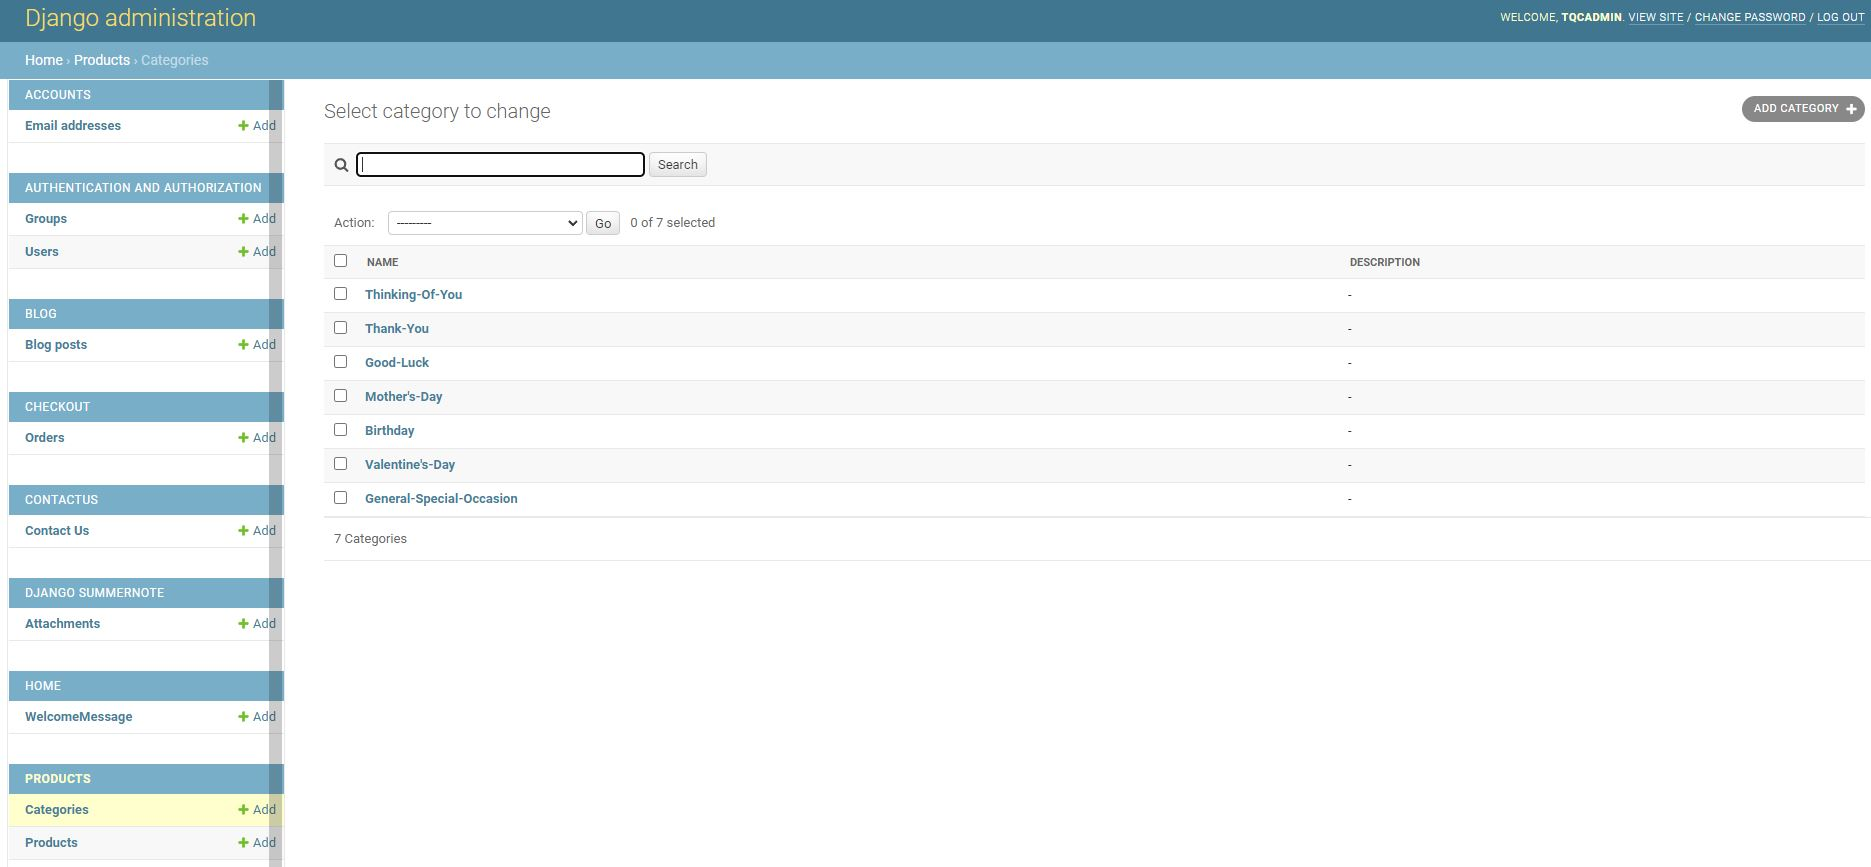
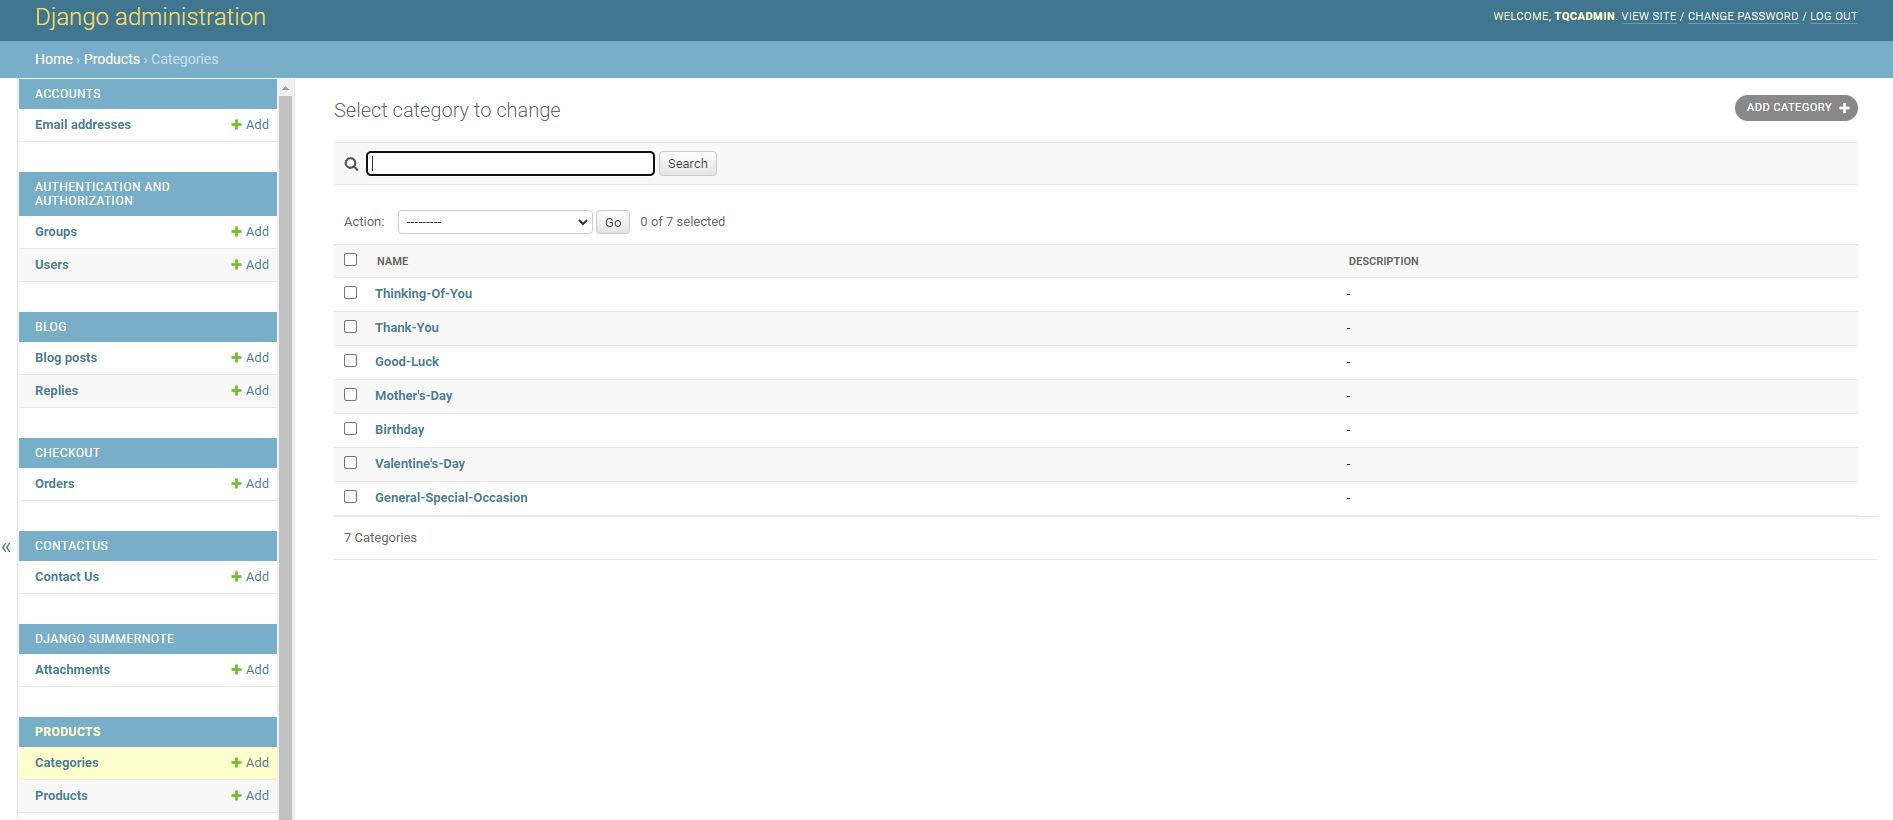
Update Testing and Acknowledgements in README

diff --git a/README.md b/README.md
@@ -440,14 +440,31 @@ Deleting a product triggers the following confirmation page:
     - Expected: There should be a page to submit a message 
     - Actual: From the "Contact Us" link, there is a form to allow sending of messages to site admin
     ![Image of contact us page](https://raw.githubusercontent.com/domsq/tina-q-cards/master/screenshots/features/contact_us.JPG)<br>
+- As a site user I can reply to the blog posts so that I can express an opinion about them or add a comment
+    - Expected: There will be a form to submit a reply when viewing a blog post
+    - Actual: On the blog post detail page, there is an inline form below the post that logged in users can use to post a reply
+    ![Image of blog reply form](https://raw.githubusercontent.com/domsq/tina-q-cards/master/screenshots/features/blog_detail2.JPG)<br>
+- As a site user I can edit my replies to the blog posts so that I may update them if needed
+    - Expected: There will be a function to edit an existing reply
+    - Actual: On the blog post detail page, if the user clicks "Edit" on one of their replies, the inline form below the post is used for editing the reply
+    ![Image of blog reply edit](https://raw.githubusercontent.com/domsq/tina-q-cards/master/screenshots/features/blog_reply_edit.JPG)<br>
+- As a site user I can delete any of my replies to the blog posts so that I can remove them if I feel they’re no longer needed
+    - Expected: There will be a function to delete a reply
+    - Actual: On the blog post detail page, if the user clicks "Delete" on one of their replies, they are shown a confirmation screen regarding the reply deletion
+    ![Image of blog reply delete confirmation](https://raw.githubusercontent.com/domsq/tina-q-cards/master/screenshots/features/delete_reply.JPG)<br>
 - As a site admin I can manage product categories so that I may add, update or delete them as needed
     - Expected: There will be an admin view where I can see the configured categories
     - Actual: Navigating to the admin page, which has a link visible to admin users from the "Account" dropdown, allows managing of the categories
     ![Image of category management page](https://raw.githubusercontent.com/domsq/tina-q-cards/master/screenshots/testing/manage_categories.JPG)<br>
 - As a site admin I can manage products so that I may add, update or delete them as needed
-    - Expected: I will be able to view product management from the admin view
-    - Actual: From the admin page, I can select to manage the products
-    ![Image of product management page](https://raw.githubusercontent.com/domsq/tina-q-cards/master/screenshots/testing/manage_products.JPG)<br>
+    - Expected: There will be functionality to manage products
+    - Actual: 
+        - Adding products: From the "Account" dropdown, I can click "Product Management" as a logged in admin user to add a new product
+        ![Image of add product page](https://raw.githubusercontent.com/domsq/tina-q-cards/master/screenshots/features/add_product.JPG)<br>
+        - Updating products: From either the product overview or product detail pages, I can click "Edit" on a product as a logged in admin user to update it
+        ![Image of edit product page](https://raw.githubusercontent.com/domsq/tina-q-cards/master/screenshots/features/edit_product.JPG)<br>
+        - Deleting products: From either the product overview or product detail pages, I can click "Delete" on a product as a logged in admin user to delete it
+        ![Image of delete product page](https://raw.githubusercontent.com/domsq/tina-q-cards/master/screenshots/features/delete_product.JPG)<br>
 - As a site admin I can manage user accounts so that any required changes to them can be made
     - Expected: The admin view should have a way to manage users
     - Actual: From the admin page, clicking on "Users" allows management of them
@@ -460,10 +477,6 @@ Deleting a product triggers the following confirmation page:
     - Expected: I should be able to view submitted messages from an admin view
     - Actual: Clicking on "Contact Us" from the admin page allows viewing of submitted messages
     ![Image of message management page](https://raw.githubusercontent.com/domsq/tina-q-cards/master/screenshots/testing/manage_messages.JPG)<br>
-- As a site admin I can manage the welcome message text that displays on the Homepage so that I can update it if required
-    - Expected: There will be a way to view the welcome message text
-    - Actual: From the admin page, clicking on "WelcomeMessage" allows for this functionality
-    ![Image of welcome message management page](https://raw.githubusercontent.com/domsq/tina-q-cards/master/screenshots/testing/manage_welcomemessage.JPG)<br>
 - As a site admin I can manage the content on the “Tina's Blog” page so that it can be amended if needed
     - Expected: The admin view will have a way to manage content for the blog page
     - Actual: Navigating to "Blog posts" allows management of this content
@@ -506,8 +519,9 @@ During the development of my application, I encountered the following bugs which
 - My checkout wasn’t initially working once I’d deployed, this was because I’d forgotten to set the “STRIPE_PUBLIC_KEY”, “STRIPE_SECRET_KEY” and “STRIPE_WH_SECRET” environment variables on Heroku. 
 - When configuring the profiles app, I had to temporarily adjust the signal for profile creation to create a profile for my user. Upon testing, and before setting the signal back to what it should be, I was getting errors about the user profile already existing (this was due to the signal trying to create a new profile regardless). Once the signal was reset to what it should be, the error was resolved.
 - If you scroll all the way down on the products page, getting right to the bottom of the footer, the BTT button wouldn't work. Adding z-index of 1 fixed this.
-- When configuring Summernote for the body field on the BlogPost model admin view, I forgot to add the URLs to the base URL file, resulting in a “Not found” error. Correctly adding the URLs to the base URL file fixed this. 
-
+- When configuring Summernote for the body field on the BlogPost model admin view, I forgot to add the URLs to the base URL file, resulting in a “Not found” error. Correctly adding the URLs to the base URL file fixed this.
+- When configuring the blog overview template, the posts weren’t displaying as I intended, namely side by side on larger screens. This was due to me having put the containing div for the posts outside the for loop for generating the posts, rather than inside it. 
+- When creating the blog detail page, which shows all related replies, I was initially getting an error regarding "‘RelatedManager’ object is not iterable" when trying to render the replies. This was due to my having referenced the associated replies in the view as "replies = post.blog_replies" instead of "replies = post.blog_replies.all()"
 
 ### Validator testing
 
@@ -530,11 +544,21 @@ During the development of my application, I encountered the following bugs which
     ![Image of checkout complete page validation](https://raw.githubusercontent.com/domsq/tina-q-cards/master/screenshots/validation/html/checkout_success_validate.JPG)<br>
     - Profile page:<br>
     ![Image of profile page validation](https://raw.githubusercontent.com/domsq/tina-q-cards/master/screenshots/validation/html/profile_validate.JPG)<br>
-    - Blog page:<br>
-    ![Image of blog page validation](https://raw.githubusercontent.com/domsq/tina-q-cards/master/screenshots/validation/html/blog_validate.JPG)<br>
+    - Blog overview page:<br>
+    ![Image of blog overview page validation](https://raw.githubusercontent.com/domsq/tina-q-cards/master/screenshots/validation/html/blog_overview_validate.JPG)<br>
+    - Blog detail page:<br>
+    ![Image of blog detail page validation](https://raw.githubusercontent.com/domsq/tina-q-cards/master/screenshots/validation/html/blog_detail_validate.JPG)<br>
     The error noted relates to my using Summernote to edit the body text in the admin view.
+    - Blog reply delete page:<br>
+    ![Image of blog reply delete page validation](https://raw.githubusercontent.com/domsq/tina-q-cards/master/screenshots/validation/html/delete_reply_validate.JPG)<br>
     - Contact Us page:<br>
     ![Image of contact us page validation](https://raw.githubusercontent.com/domsq/tina-q-cards/master/screenshots/validation/html/contact_us_validate.JPG)<br>
+    - Add Product page:<br>
+    ![Image of add product page validation](https://raw.githubusercontent.com/domsq/tina-q-cards/master/screenshots/validation/html/add_product_validate.JPG)<br>
+    - Edit Product page:<br>
+    ![Image of edit product page validation](https://raw.githubusercontent.com/domsq/tina-q-cards/master/screenshots/validation/html/edit_product_validate.JPG)<br>
+    - Delete Product page:<br>
+    ![Image of delete product page validation](https://raw.githubusercontent.com/domsq/tina-q-cards/master/screenshots/validation/html/delete_product_validate.JPG)<br>
 
 - CSS
     - Base.css file:<br>
@@ -555,16 +579,12 @@ During the development of my application, I encountered the following bugs which
     ![Image of update-remove.js validation](https://raw.githubusercontent.com/domsq/tina-q-cards/master/screenshots/validation/js/update_remove_js_validate.JPG)<br>
 
 - Python
-  - Please see below flake8 validation for the python files in my project. For any errors noted, I was unable to correct these prior to submission and would need to revisit at a later date.<br>
+  - Please see below flake8 validation for the python files in my project. There are 3 warnings and 1 error, I was unable to correct the error without affecting functionality.<br>
 
     ./checkout/apps.py:9:9: F401 'checkout.signals' imported but unused<br>
-    ./checkout/webhook_handler.py:74:80: E501 line too long (80 > 79 characters)<br>
-    ./checkout/webhook_handler.py:75:80: E501 line too long (80 > 79 characters)<br>
     ./checkout/webhooks.py:24:5: F841 local variable 'e' is assigned to but never used<br>
     ./checkout/webhooks.py:27:5: F841 local variable 'e' is assigned to but never used<br>
     ./checkout/webhooks.py:39:80: E501 line too long (86 > 79 characters)<br>
-    ./contactus/forms.py:33:80: E501 line too long (98 > 79 characters)<br>
-    ./profiles/forms.py:36:80: E501 line too long (98 > 79 characters)<br>
 
 ## Deployment
 
@@ -633,4 +653,6 @@ In addition to the content from the LMS, and in particular the Boutique Ado walk
 - https://github.com/summernote/django-summernote
 - https://stackoverflow.com/questions/10270891/newline-in-models-textfield-not-rendered-in-template
 
-As always, many thanks to my mentor Akshat Garg for his invaluable advice and guidance and also to the Code Institute Slack community who helped me whenever I had a query about my project or something related. Thanks guys!
+As always, many thanks to my mentor Akshat Garg for his invaluable advice and guidance. Earlier on in the design of my application, I had a model called "WelcomeMessage" for the homepage introduction text and also what is now "Tina's Blog" was originally going to be called "About Us". I removed "WelcomeMessage" and adjusted "About Us" to "Tina's Blog" following some discussion with Akshat.<br>
+<br>
+I'd also like to acknowledge the Code Institute Slack community, who helped me whenever I had a query about my project or something related. Thanks guys!
